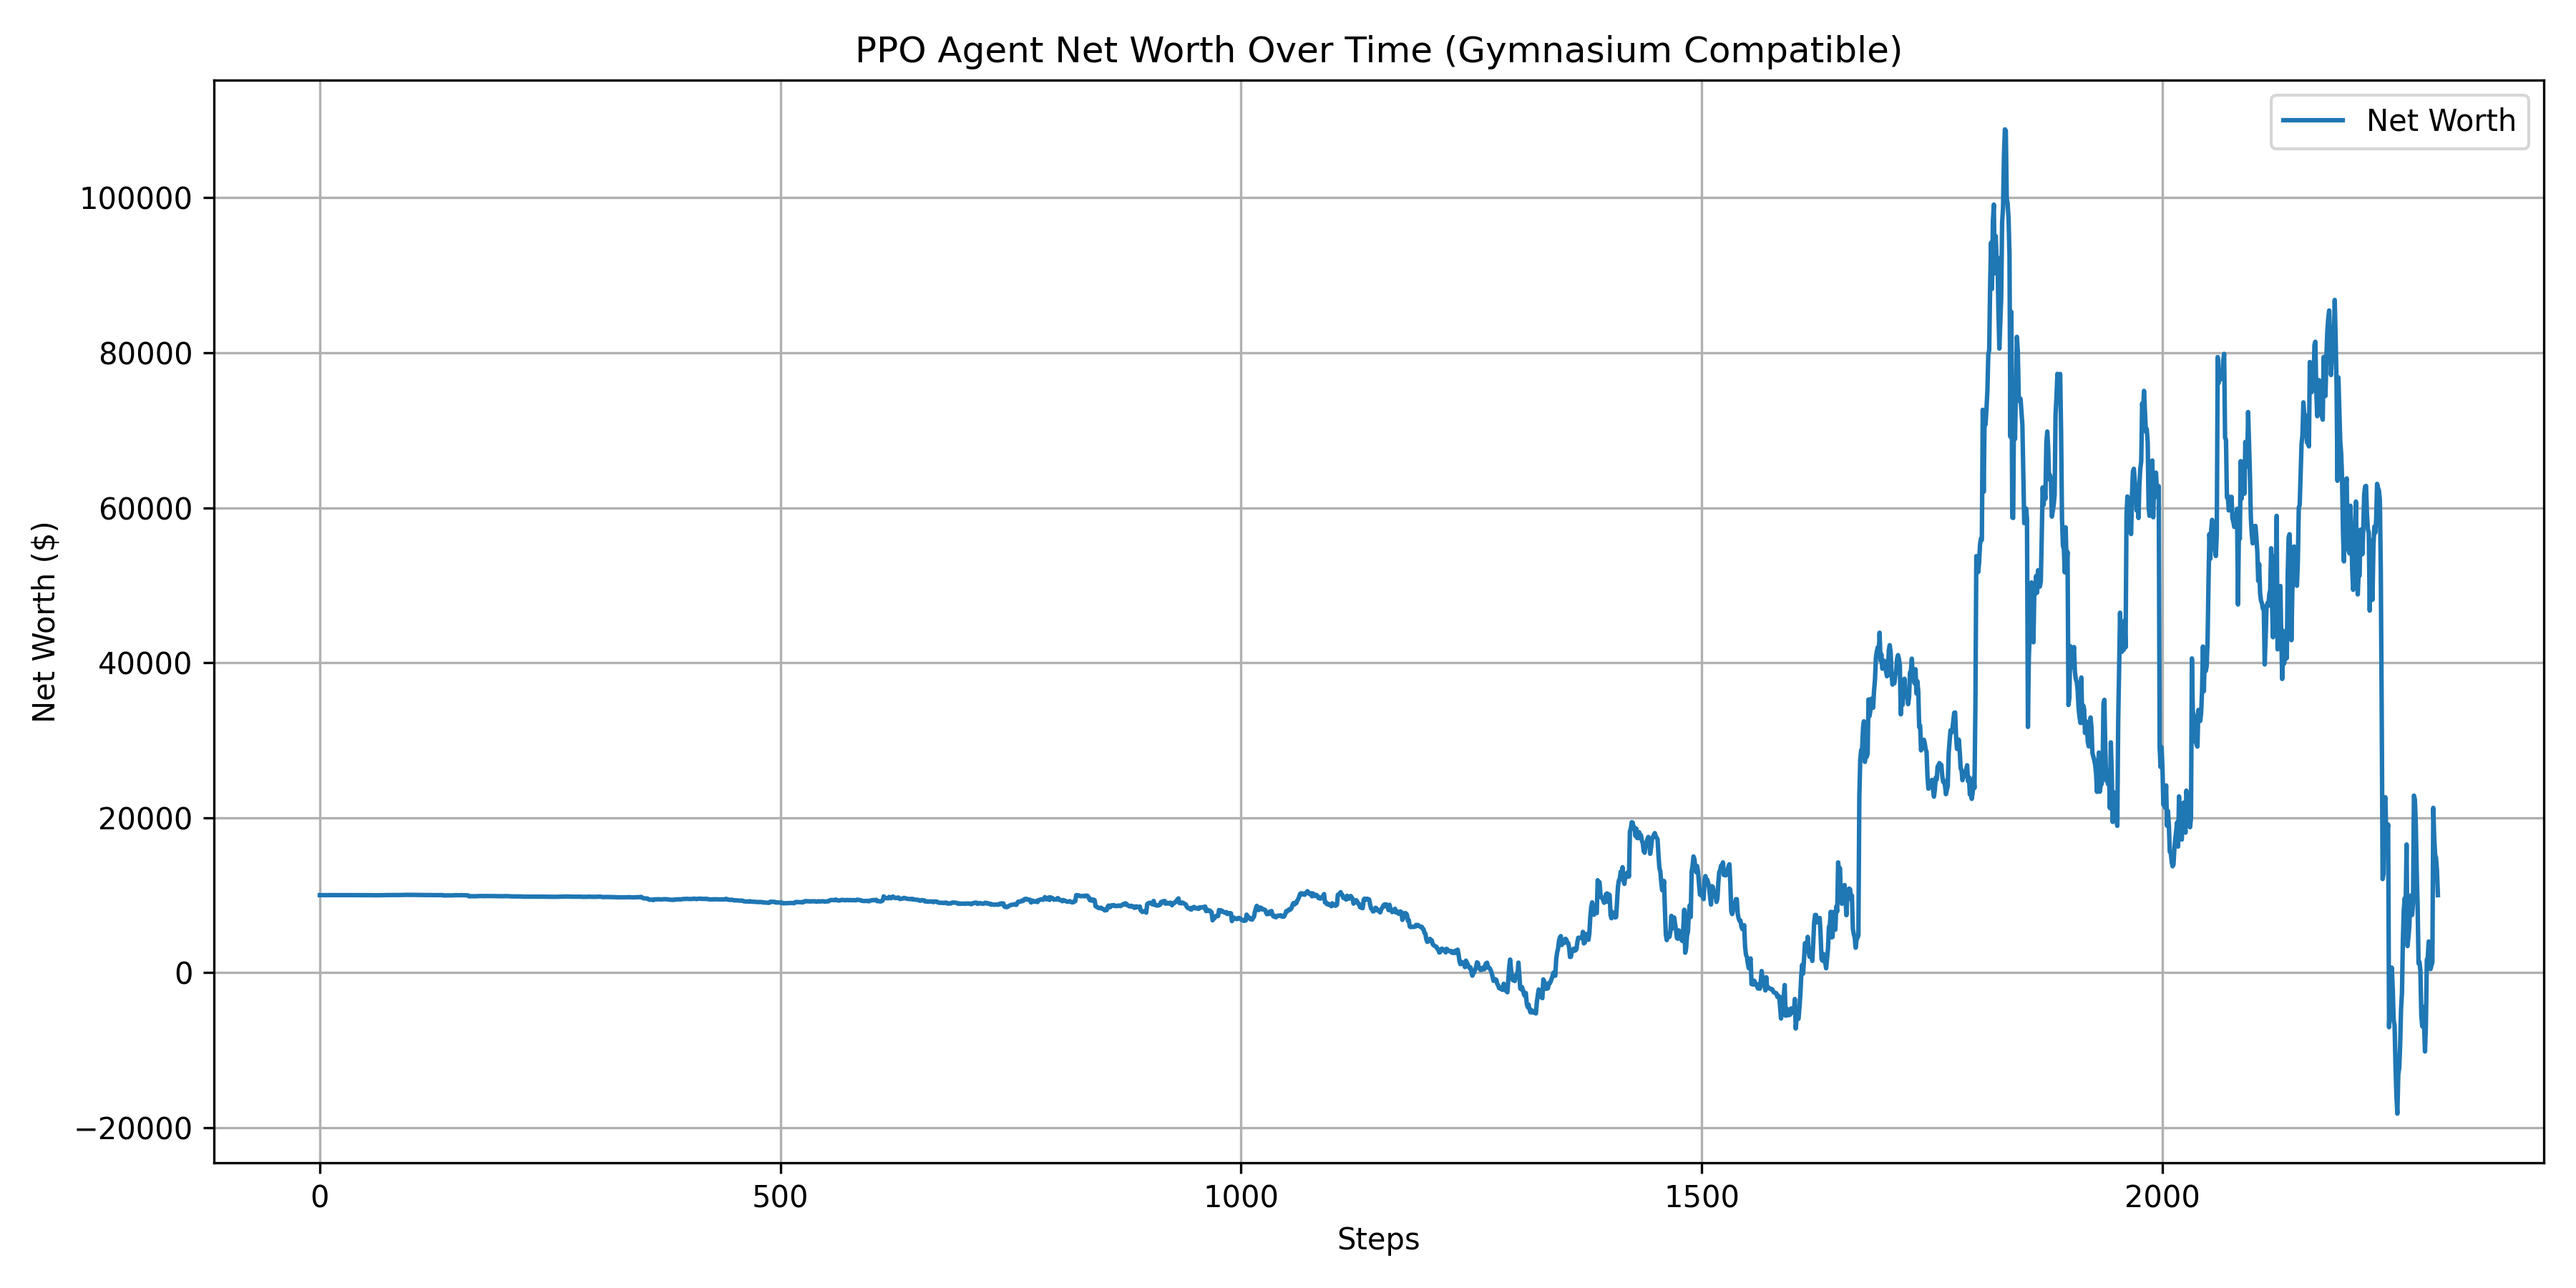
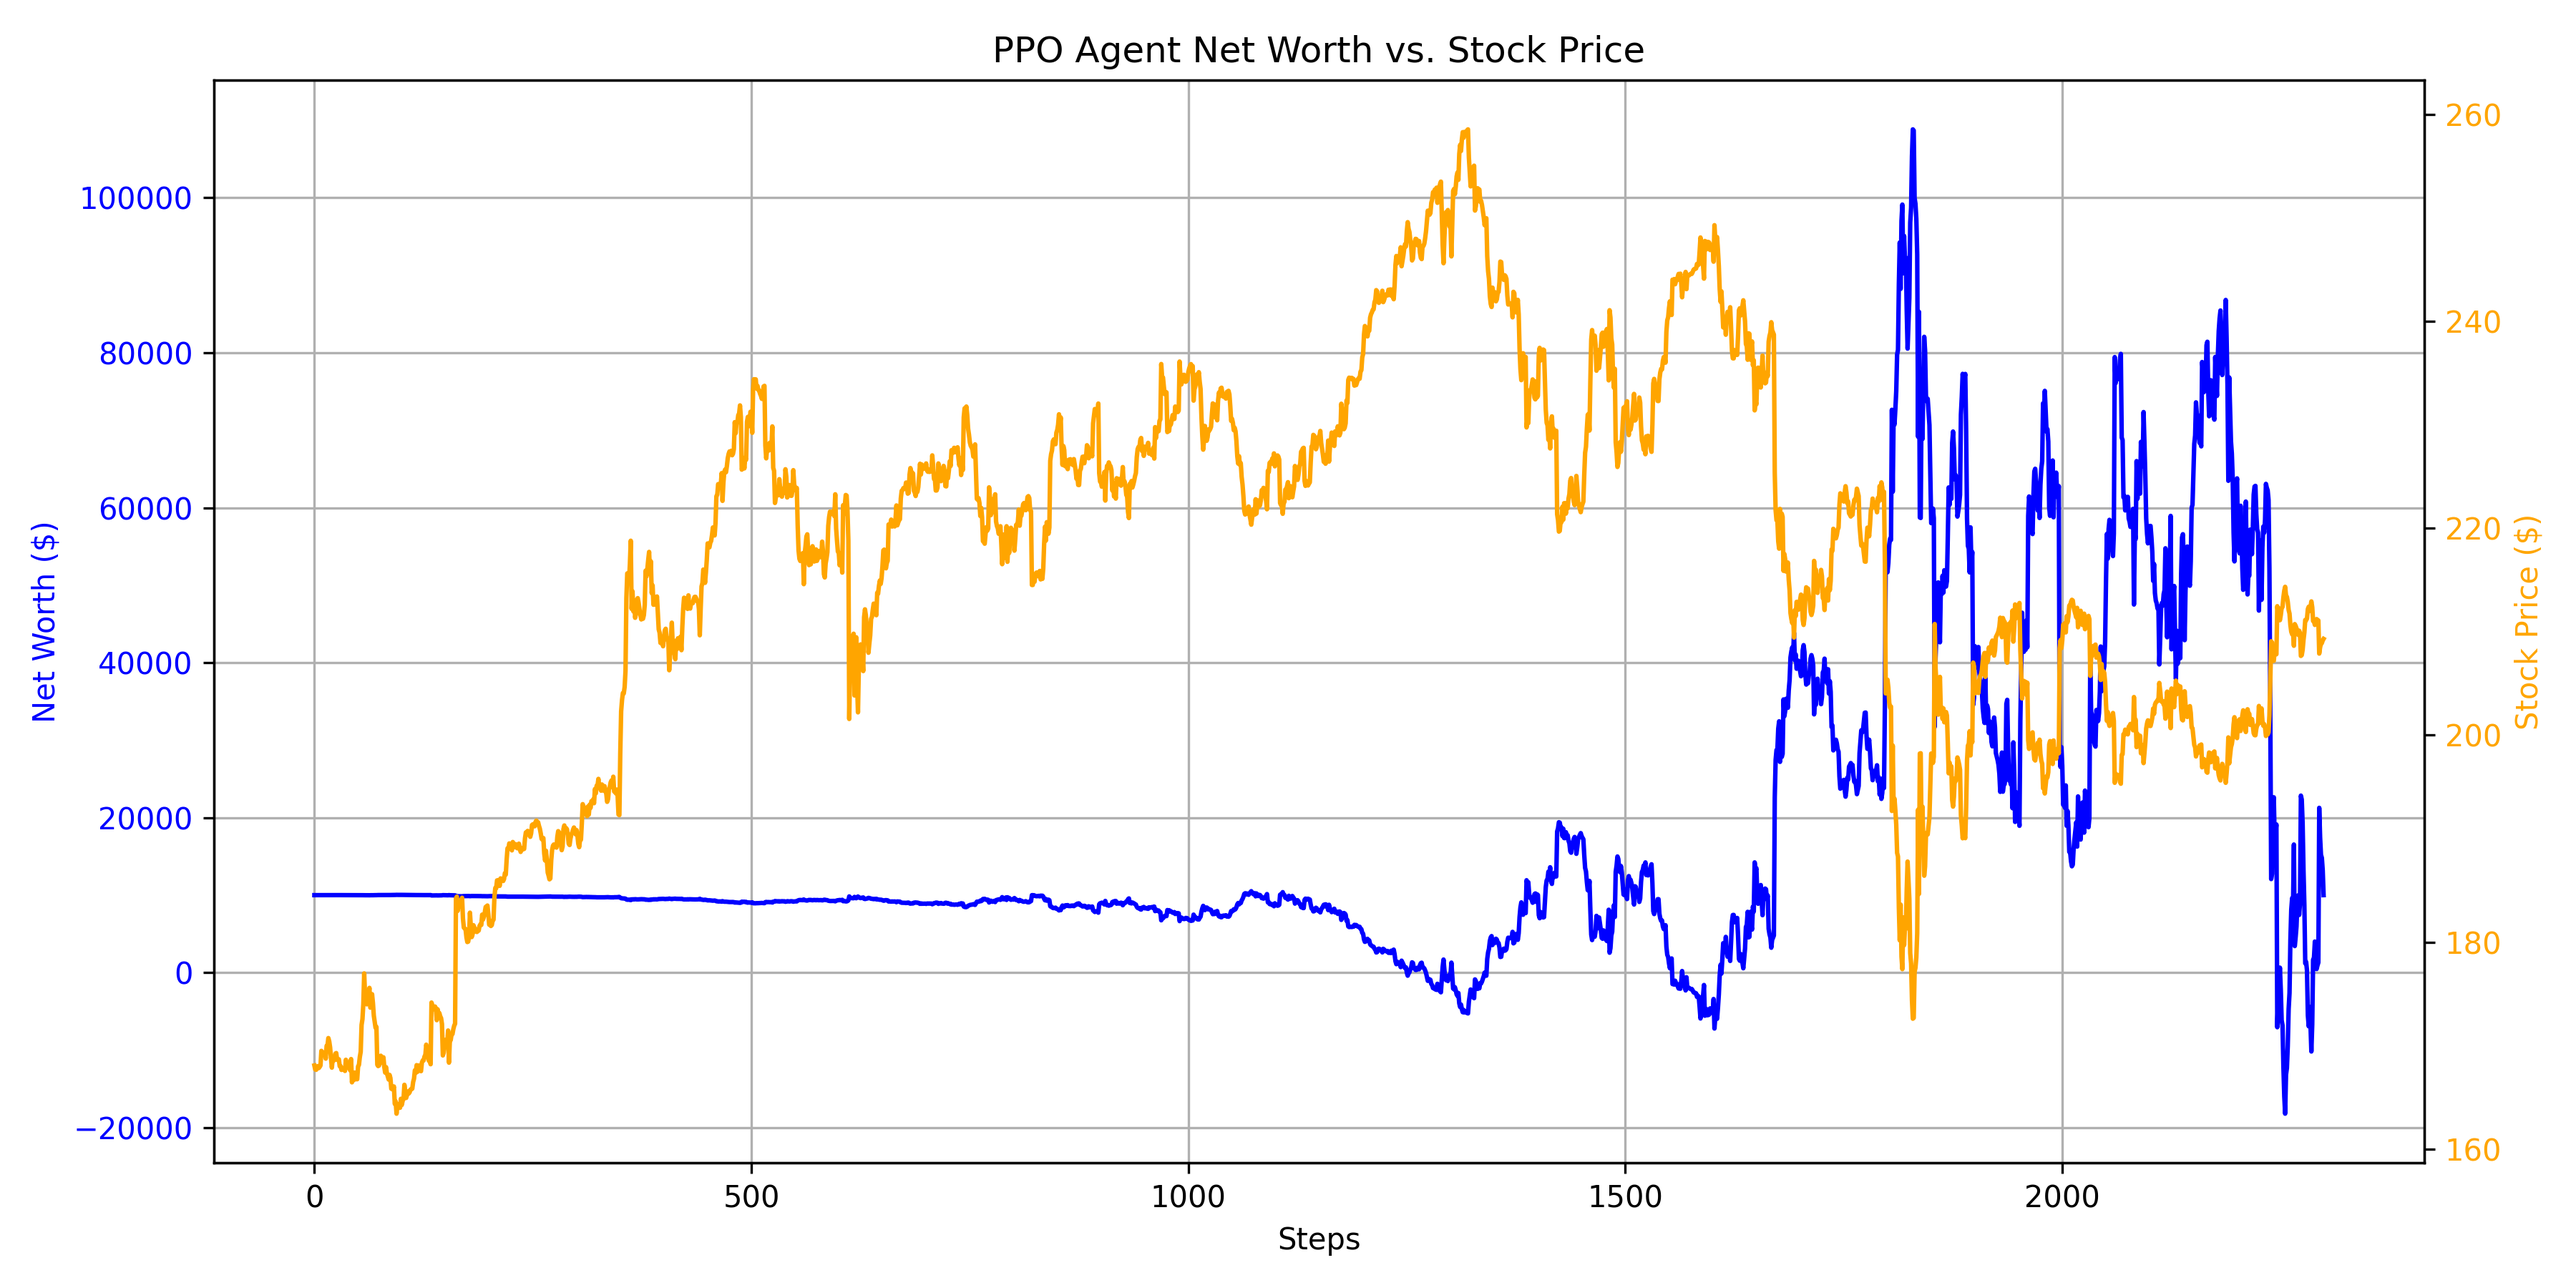
fixed short selling

diff --git a/analysis/trading_envs.py b/analysis/trading_envs.py
@@ -41,24 +41,37 @@ class ShortTradingEnv(gym.Env):
         price = self.prices[self.current_step]
         reward = 0
 
-        # how much can we buy and sell
-        shares_to_buy = min(self.buy_sell_cap, math.floor(self.balance/price) * self.buy_sell_rate)
-        shares_to_sell = min(math.floor(self.buy_sell_rate*self.shares_held), self.buy_sell_cap)
-        shares_to_sell_shorts = min(math.floor(self.short_rate*self.short_position), self.buy_sell_cap)
+        # Calculate how much we can buy/sell
+        shares_affordable = math.floor(self.balance / price)
 
-        # Actions: 0 = Hold, 1 = Buy, 2 = Sell, 3 = Short Sell
+        # min between the cap and what we can buy X the rate
+        shares_to_buy = min(self.buy_sell_cap, math.floor(shares_affordable * self.buy_sell_rate))
+
+        # min between the cap and what we hold X the rate
+        shares_to_sell = min(self.buy_sell_cap, math.floor(self.shares_held * self.buy_sell_rate))
+        
+        # shorting: we buy a % of your net worth
+        shares_to_short = min(self.buy_sell_cap, math.floor(self.net_worth * self.short_rate))
+
+        # short covering: we sell 25% of our short position
+        shares_to_cover = min(self.buy_sell_cap, math.floor(self.short_position * 0.25))
+
+        # Actions
         if action == 1 and self.balance >= price:  # Buy
             self.shares_held += shares_to_buy
-            self.balance -= price * shares_to_buy
+            self.balance -= shares_to_buy * price
+
         elif action == 2 and self.shares_held > 0:  # Sell
             self.shares_held -= shares_to_sell
-            self.balance += price*shares_to_sell
-        elif action == 3:  # Short sell (borrow one share)
-            self.short_position += shares_to_buy
-            self.balance += price * shares_to_buy
-        elif action == 2 and self.short_position > 0:  # Cover short (buy to close)
-            self.short_position -= shares_to_sell_shorts
-            self.balance -= price*shares_to_sell_shorts
+            self.balance += shares_to_sell * price
+
+        elif action == 3 and self.balance >= price:  # Short Sell (open short position)
+            self.short_position += shares_to_short
+            self.balance += shares_to_short * price
+
+        elif action == 4 and self.short_position > 0:  # Cover Short (buy back shares)
+            self.short_position -= shares_to_cover
+            self.balance -= shares_to_cover * price
 
         self.current_step += 1
         done = self.current_step >= self.max_steps

diff --git a/analysis/rl-workbench-ppo.py b/analysis/rl-workbench-ppo.py
@@ -83,23 +83,34 @@ for option in optionList:
         net_worth = env.get_attr('get_net_worth')[0]()  
         net_worths.append(net_worth)
 
-        current_step = env.get_attr('current_step')[0]
-        stock_price = df['close'].iloc[current_step]
-        stock_prices.append(stock_price)
+        stock_price = df['close'].iloc[step]
+        stock_prices.append(float(stock_price))
 
         if done[0]:
             break
 
+    # print(stock_prices)
+
     # Plotting
-    plt.figure(figsize=(12, 6))
-    plt.plot(net_worths, label="Net Worth")
-    plt.plot(stock_prices, label="Stock Price ($)", linestyle="--")
-    plt.title("PPO Agent Net Worth Over Time (Gymnasium Compatible)")
-    plt.xlabel("Steps")
-    plt.ylabel("Net Worth ($)")
-    plt.legend()
-    plt.grid()
-    plt.tight_layout()
+    fig, ax1 = plt.subplots(figsize=(12, 6))
+
+    # 📈 Plot Net Worth (left Y-axis)
+    ax1.plot(net_worths, color='blue', label="Net Worth ($)")
+    ax1.set_xlabel("Steps")
+    ax1.set_ylabel("Net Worth ($)", color='blue')
+    ax1.tick_params(axis='y', labelcolor='blue')
+    ax1.grid(True)
+
+    # 📉 Create a second y-axis for Stock Price (right Y-axis)
+    ax2 = ax1.twinx()
+    ax2.plot(stock_prices, color='orange', label="Stock Price ($)")
+    ax2.set_ylabel("Stock Price ($)", color='orange')
+    ax2.tick_params(axis='y', labelcolor='orange')
+
+    # Title and legends
+    plt.title("PPO Agent Net Worth vs. Stock Price")
+    fig.tight_layout()
+    
 
     # Save the figure to disk
     plt.savefig(f"output/ppo_net_worth_{TICKER}_{INTERVAL}_{n_steps}_{total_timesteps}_{TRADING_TYPE}.png", dpi=300)  # You can also use .jpg, .pdf, etc.
